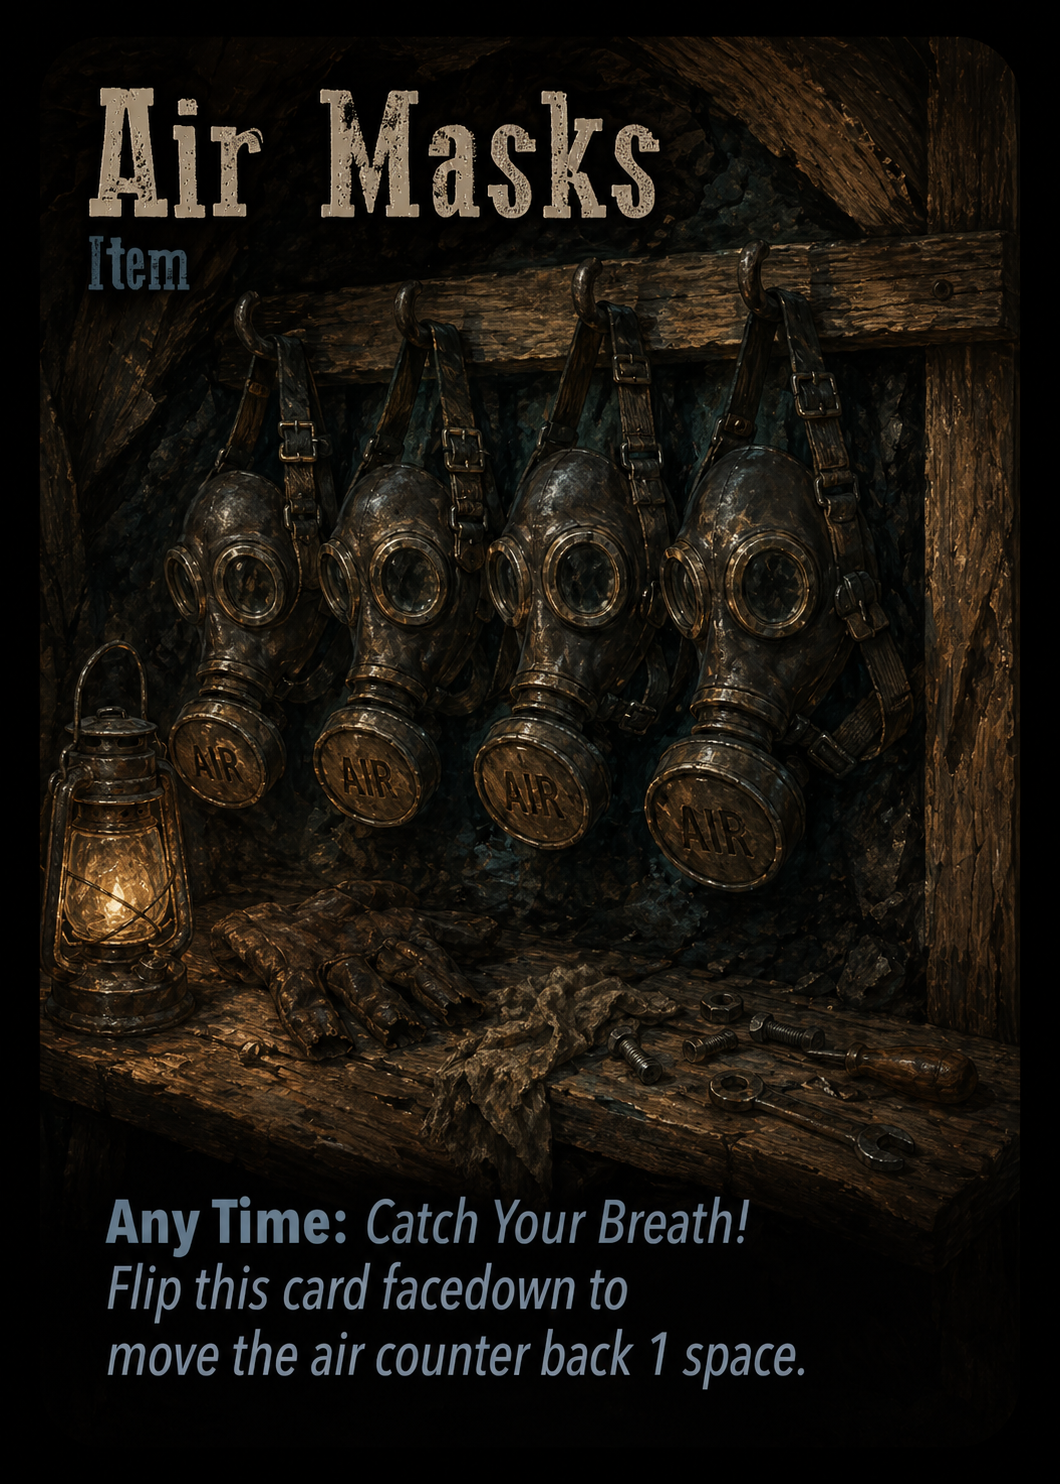
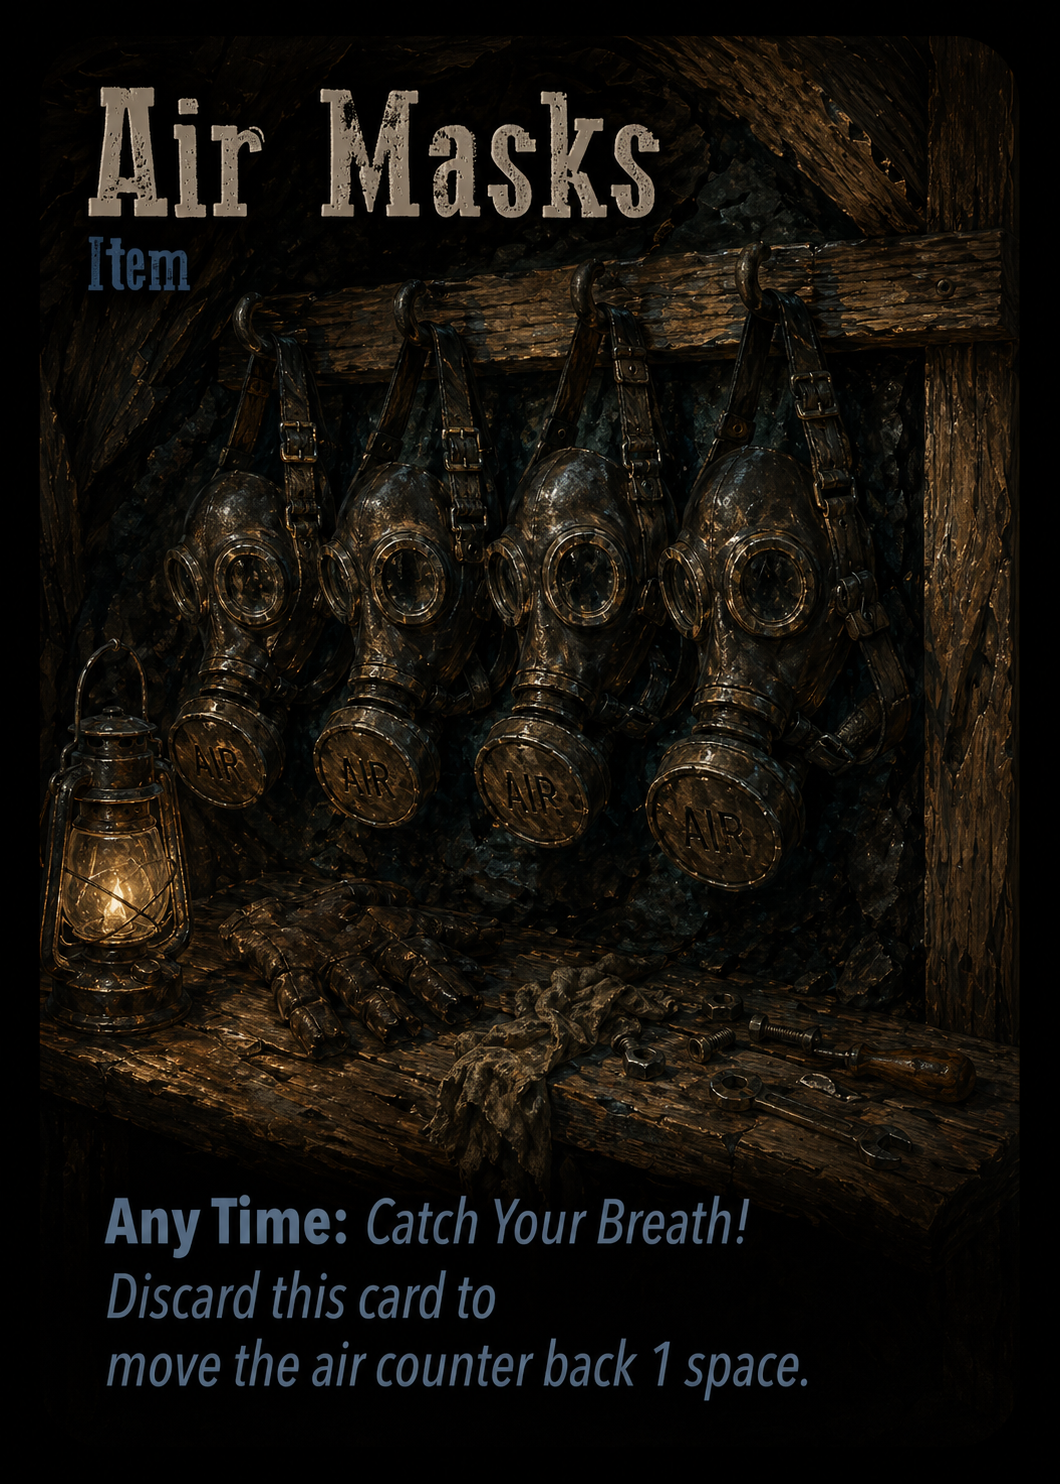
Clarify Air Masks discard use

diff --git a/rules.html b/rules.html
@@ -828,7 +828,7 @@
               <img src="assets/cards/card_air_masks.png" alt="Air Masks card">
               <div>
                 <h4>Air Masks</h4>
-                <p>Optional Tool Chest item. It may be held and used at any time to move the air counter back 1 space.</p>
+                <p>Optional Tool Chest item. It may be held and discarded at any time to move the air counter back 1 space.</p>
               </div>
             </div>
             <div class="inventory-item">
@@ -1223,7 +1223,7 @@
               <img src="assets/cards/card_air_masks.png" alt="Air Masks card" style="width: 100%; max-width: 180px; display: block; margin: 0 0 12px; border-radius: 6px;">
               <h4>Optional Air Masks</h4>
               <p>Shuffle 1 Air Masks card into the Tool Chest pile if you want the team to have one holdable emergency air option.</p>
-              <p>As an item, Air Masks may be kept in a player's inventory and used at any time. When used, flip it facedown and move the air counter back 1 space, up to the starting air value.</p>
+              <p>As an item, Air Masks may be kept in a player's inventory and used at any time. When used, discard it and move the air counter back 1 space, up to the starting air value.</p>
               <p>This variant gives players a small timing decision: use the air immediately, or save it for the final escape push.</p>
             </div>
             <div class="rule-card">
